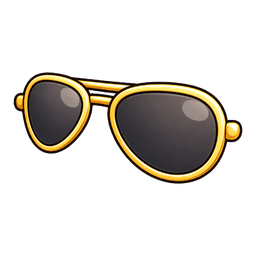
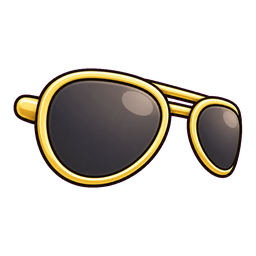
feat(side-art): side sprites for the 17 two-lens glasses
Generated with the corrected camera + lens addendum; reviewed on the
turned pig, standing and seated. gen_side_items also carries mask and
one-eye addenda and reads membersRel.generated.ts for eye anchors.

Changed region(s): [[0.0312, 0.25, 0.9688, 0.75]]

diff --git a/constants/hat_side.generated.ts b/constants/hat_side.generated.ts
@@ -7,7 +7,24 @@ export const HAT_SIDE_IMAGES: Record<string, number> = {
 	acorn_bow: require("../assets/images/hats/side/acorn_bow.png"),
 	astronaut: require("../assets/images/hats/side/astronaut.png"),
 	aviator_sunglasses: require("../assets/images/hats/side/aviator_sunglasses.png"),
+	cocoa_sheen_specs: require("../assets/images/hats/side/cocoa_sheen_specs.png"),
+	coconut_shell_shades: require("../assets/images/hats/side/coconut_shell_shades.png"),
 	cowboy: require("../assets/images/hats/side/cowboy.png"),
+	frost_spectacles: require("../assets/images/hats/side/frost_spectacles.png"),
+	galaxy_shades: require("../assets/images/hats/side/galaxy_shades.png"),
+	heart_sunglasses: require("../assets/images/hats/side/heart_sunglasses.png"),
+	jam_jar_lenses: require("../assets/images/hats/side/jam_jar_lenses.png"),
+	knight_visor_specs: require("../assets/images/hats/side/knight_visor_specs.png"),
+	lollipop_specs: require("../assets/images/hats/side/lollipop_specs.png"),
+	nerd_glasses: require("../assets/images/hats/side/nerd_glasses.png"),
+	petal_specs: require("../assets/images/hats/side/petal_specs.png"),
+	pixel_glasses: require("../assets/images/hats/side/pixel_glasses.png"),
+	round_glasses: require("../assets/images/hats/side/round_glasses.png"),
+	royal_pince_nez: require("../assets/images/hats/side/royal_pince_nez.png"),
+	safety_goggles: require("../assets/images/hats/side/safety_goggles.png"),
+	swim_goggles: require("../assets/images/hats/side/swim_goggles.png"),
+	three_d_glasses: require("../assets/images/hats/side/three_d_glasses.png"),
 	tophat: require("../assets/images/hats/side/tophat.png"),
+	wallow_bronze_specs: require("../assets/images/hats/side/wallow_bronze_specs.png"),
 	wizard: require("../assets/images/hats/side/wizard.png"),
 };

diff --git a/tools/gen_side_items.py b/tools/gen_side_items.py
@@ -83,16 +83,58 @@ LENSES = (
 )
 
 
+# A mask wraps the face instead of sitting on it: eyeholes rather than lenses,
+# no bridge, no temple arms, and the far side curves away around the snout.
+MASKS = (
+    "THIS ITEM IS A MASK WORN OVER THE EYES. Draw it wrapping the face at that "
+    "three-quarter angle: the NEAR eyehole on the LEFT of the picture at full "
+    "size, the FAR eyehole on the RIGHT foreshortened to about sixty percent "
+    "and tighter to the middle, the mask's far edge curving away and cut off "
+    "where the snout would hide it. Any nose piece, brow, crest, feathers or "
+    "trim turn with it — the front of the decoration faces the way the pig "
+    "looks (right). Keep every colour, gem, pattern and trim of the front "
+    "sprite."
+)
+MASK_IDS = frozenset({
+    "carnival_mask", "cat_mask", "domino", "hero_mask", "masquerade",
+    "midnight_eye_mask", "robber_mask", "skull_mask", "sleep_mask",
+    "venice_mask", "vr_headset",
+})
+
+# One lens over the near eye (the RelSpec anchors these on `eye_l`, which on
+# the turned families is the near, full-size eye).
+ONE_EYE = (
+    "THIS ITEM SITS OVER ONE EYE — the NEAR eye, on the LEFT of the picture. "
+    "Draw the single lens seen at that three-quarter angle: a little narrower "
+    "than the front view, its rim turned with the head, any chain, ribbon or "
+    "handle trailing down and to the LEFT. Keep the metal, the glass and the "
+    "decoration exactly as in the front sprite."
+)
+ONE_EYE_IDS = frozenset({"monocle", "slop_club_monocle_crest", "opera_lorgnette"})
+
+REL_FILES = ("constants/hat_rel.generated.ts", "constants/membersRel.generated.ts")
+
+
 def is_eye_item(item_id: str) -> bool:
-    """RelSpec anchor eyes / eye_l / eye_r — read straight off the registry."""
-    rel = os.path.join(ROOT, "constants/hat_rel.generated.ts")
-    try:
-        for line in open(rel):
-            if line.strip().startswith(item_id + ":"):
-                return 'anchor: "eye' in line
-    except OSError:
-        pass
+    """RelSpec anchor eyes / eye_l / eye_r — read straight off the registries."""
+    for rel in REL_FILES:
+        try:
+            for line in open(os.path.join(ROOT, rel)):
+                if line.strip().startswith(item_id + ":"):
+                    return 'anchor: "eye' in line
+        except OSError:
+            pass
     return False
+
+
+def addendum(item_id: str) -> str | None:
+    if item_id in MASK_IDS:
+        return MASKS
+    if item_id in ONE_EYE_IDS:
+        return ONE_EYE
+    if is_eye_item(item_id):
+        return LENSES
+    return None
 
 
 def prompt(item_id: str) -> str:
@@ -105,7 +147,7 @@ def prompt(item_id: str) -> str:
         "a cosmetic worn by a cartoon pig in our game. " + STYLE,
         "",
         CAMERA,
-        *(["", LENSES] if is_eye_item(item_id) else []),
+        *(["", addendum(item_id)] if addendum(item_id) else []),
         "",
         "Technical: single item centered on a SOLID, FLAT MAGENTA (#FF00FF) "
         "background — one uniform colour edge to edge, no checkerboard, no "
